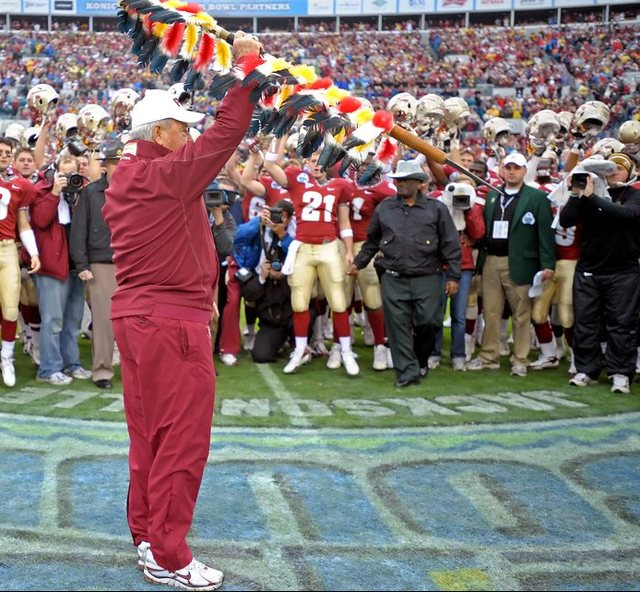
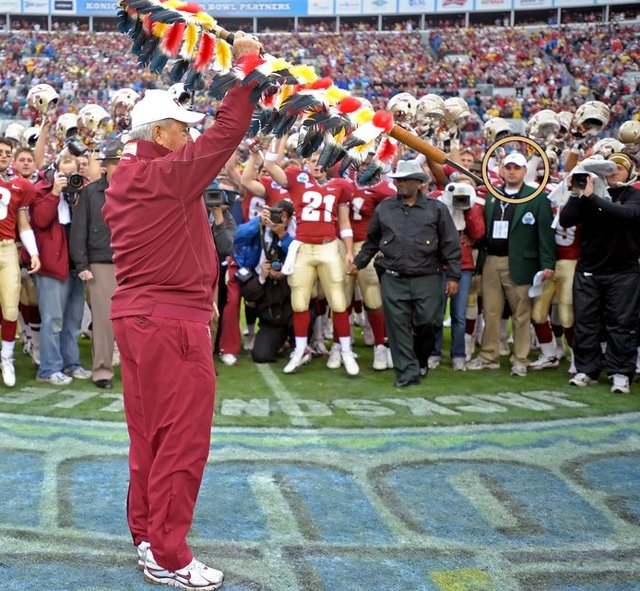
Gallery: enlarged photos keep their true shape; Erik circled in the Oval Office and Bowden photos
- the enlargement took its proportions from the tile, which for the two
  zoomed tiles is a different shape from the full photo, so those stretched;
  each link now carries the full photo's own ratio and the image never
  distorts (object-fit: contain)
- Erik is the bearded man in the back row above the woman in the tweed
  jacket (not the man at far left): the Oval Office tile is re-cropped on
  him, and a thin gold ring marks him on the tile and the enlargement; same
  ring on the green jacket in the Bowden photo
- running list for Erik updated: the zoom question is answered

diff --git a/moments.html b/moments.html
@@ -67,97 +67,97 @@
   <div class="section">
     <div class="gallery">
       <figure class="tile">
-        <a class="tile__link" href="images/desantis-meeting-1600.jpg" data-caption="With Governor Ron DeSantis">
+        <a class="tile__link" href="images/desantis-meeting-1600.jpg" data-ratio="1600 / 1067" data-caption="With Governor Ron DeSantis">
           <picture><source type="image/webp" srcset="images/desantis-meeting-640.webp 640w, images/desantis-meeting-1024.webp 1024w, images/desantis-meeting-1600.webp 1600w" sizes="(max-width: 560px) 88vw, (max-width: 1000px) 50vw, 400px"><img src="images/desantis-meeting-1024.jpg" srcset="images/desantis-meeting-640.jpg 640w, images/desantis-meeting-1024.jpg 1024w, images/desantis-meeting-1600.jpg 1600w" sizes="(max-width: 560px) 88vw, (max-width: 1000px) 50vw, 400px" alt="Erik Dellenback at a conference table with Governor DeSantis and Florida faith leaders" width="640" height="427" fetchpriority="high" decoding="async"></picture>
         </a>
         <figcaption class="tile__cap"><span class="tile__label">Government</span><span class="tile__line">With Governor Ron DeSantis</span></figcaption>
       </figure>
       <figure class="tile">
-        <a class="tile__link" href="images/tebow-foundation-960.jpg" data-caption="With Tim Tebow">
+        <a class="tile__link" href="images/tebow-foundation-960.jpg" data-ratio="960 / 960" data-caption="With Tim Tebow">
           <picture><source type="image/webp" srcset="images/tebow-foundation-640.webp 640w, images/tebow-foundation-960.webp 960w" sizes="(max-width: 560px) 88vw, (max-width: 1000px) 50vw, 400px"><img src="images/tebow-foundation-960.jpg" srcset="images/tebow-foundation-640.jpg 640w, images/tebow-foundation-960.jpg 960w" sizes="(max-width: 560px) 88vw, (max-width: 1000px) 50vw, 400px" alt="Tim Tebow with his arm around Erik Dellenback in front of a Tim Tebow Foundation backdrop" width="640" height="640" fetchpriority="high" decoding="async"></picture>
         </a>
         <figcaption class="tile__cap"><span class="tile__label">Business</span><span class="tile__line">With Tim Tebow</span></figcaption>
       </figure>
       <figure class="tile">
-        <a class="tile__link" href="images/charlie-kirk-stage-1600.jpg" data-caption="With Charlie Kirk">
+        <a class="tile__link" href="images/charlie-kirk-stage-1600.jpg" data-ratio="1600 / 1067" data-caption="With Charlie Kirk">
           <picture><source type="image/webp" srcset="images/charlie-kirk-stage-640.webp 640w, images/charlie-kirk-stage-1024.webp 1024w, images/charlie-kirk-stage-1600.webp 1600w" sizes="(max-width: 560px) 88vw, (max-width: 1000px) 50vw, 400px"><img src="images/charlie-kirk-stage-1024.jpg" srcset="images/charlie-kirk-stage-640.jpg 640w, images/charlie-kirk-stage-1024.jpg 1024w, images/charlie-kirk-stage-1600.jpg 1600w" sizes="(max-width: 560px) 88vw, (max-width: 1000px) 50vw, 400px" alt="Erik Dellenback seated on stage in conversation with Charlie Kirk at a Florida Family Voice event" width="640" height="427" fetchpriority="high" decoding="async"></picture>
         </a>
         <figcaption class="tile__cap"><span class="tile__label">Ministry</span><span class="tile__line">With Charlie Kirk</span></figcaption>
       </figure>
       <figure class="tile">
-        <a class="tile__link" href="images/chris-tomlin-1600.jpg" data-caption="With Chris Tomlin and the For Others board">
+        <a class="tile__link" href="images/chris-tomlin-1600.jpg" data-ratio="1600 / 1600" data-caption="With Chris Tomlin and the For Others board">
           <picture><source type="image/webp" srcset="images/chris-tomlin-640.webp 640w, images/chris-tomlin-1024.webp 1024w, images/chris-tomlin-1600.webp 1600w" sizes="(max-width: 560px) 88vw, (max-width: 1000px) 50vw, 400px"><img src="images/chris-tomlin-1024.jpg" srcset="images/chris-tomlin-640.jpg 640w, images/chris-tomlin-1024.jpg 1024w, images/chris-tomlin-1600.jpg 1600w" sizes="(max-width: 560px) 88vw, (max-width: 1000px) 50vw, 400px" alt="Erik Dellenback with Chris Tomlin and the For Others board, standing in a line in a bright loft" width="640" height="640" loading="lazy" decoding="async"></picture>
         </a>
         <figcaption class="tile__cap"><span class="tile__label">Business</span><span class="tile__line">With Chris Tomlin and the For Others board</span></figcaption>
       </figure>
       <figure class="tile">
-        <a class="tile__link" href="images/trump-oval-office-1600.jpg" data-caption="With President Trump">
+        <a class="tile__link" href="images/trump-oval-office-1600.jpg" data-ratio="1600 / 1067" data-caption="With President Trump">
           <picture><source type="image/webp" srcset="images/trump-oval-office-640.webp 640w, images/trump-oval-office-1024.webp 1024w, images/trump-oval-office-1600.webp 1600w" sizes="(max-width: 560px) 88vw, (max-width: 1000px) 50vw, 400px"><img src="images/trump-oval-office-1024.jpg" srcset="images/trump-oval-office-640.jpg 640w, images/trump-oval-office-1024.jpg 1024w, images/trump-oval-office-1600.jpg 1600w" sizes="(max-width: 560px) 88vw, (max-width: 1000px) 50vw, 400px" alt="Erik Dellenback standing beside President Trump at the Resolute Desk in the Oval Office" width="640" height="427" loading="lazy" decoding="async"></picture>
         </a>
         <figcaption class="tile__cap"><span class="tile__label">Government</span><span class="tile__line">With President Trump</span></figcaption>
       </figure>
       <figure class="tile">
-        <a class="tile__link" href="images/bowden-last-game-1024.jpg" data-caption="Bobby Bowden’s last game, 2010 Gator Bowl">
-          <picture><source type="image/webp" srcset="images/bowden-zoom-640.webp 640w" sizes="(max-width: 560px) 88vw, (max-width: 1000px) 50vw, 400px"><img src="images/bowden-zoom-640.jpg" srcset="images/bowden-zoom-640.jpg 640w" sizes="(max-width: 560px) 88vw, (max-width: 1000px) 50vw, 400px" alt="Bobby Bowden at midfield holding a spear overhead before a full stadium" width="640" height="592" loading="lazy" decoding="async"></picture>
+        <a class="tile__link" href="images/bowden-last-game-ring-1024.jpg" data-ratio="1024 / 681" data-caption="Bobby Bowden’s last game, 2010 Gator Bowl">
+          <picture><source type="image/webp" srcset="images/bowden-zoom-640.webp 640w" sizes="(max-width: 560px) 88vw, (max-width: 1000px) 50vw, 400px"><img src="images/bowden-zoom-640.jpg" srcset="images/bowden-zoom-640.jpg 640w" sizes="(max-width: 560px) 88vw, (max-width: 1000px) 50vw, 400px" alt="Bobby Bowden at midfield holding a spear overhead; Erik, circled, stands at right in a green jacket" width="640" height="591" loading="lazy" decoding="async"></picture>
         </a>
         <figcaption class="tile__cap"><span class="tile__line">Bobby Bowden’s last game, 2010 Gator Bowl</span></figcaption>
       </figure>
       <figure class="tile">
-        <a class="tile__link" href="images/pheasant-hunt-1024.jpg" data-caption="With Geoff Moore and Pastor Joby Martin">
+        <a class="tile__link" href="images/pheasant-hunt-1024.jpg" data-ratio="1020 / 773" data-caption="With Geoff Moore and Pastor Joby Martin">
           <picture><source type="image/webp" srcset="images/pheasant-hunt-640.webp 640w, images/pheasant-hunt-1024.webp 1024w" sizes="(max-width: 560px) 88vw, (max-width: 1000px) 50vw, 400px"><img src="images/pheasant-hunt-1024.jpg" srcset="images/pheasant-hunt-640.jpg 640w, images/pheasant-hunt-1024.jpg 1024w" sizes="(max-width: 560px) 88vw, (max-width: 1000px) 50vw, 400px" alt="Erik Dellenback and two friends in orange hunting vests smiling in an open field" width="638" height="483" loading="lazy" decoding="async"></picture>
         </a>
         <figcaption class="tile__cap"><span class="tile__label">Outdoors</span><span class="tile__line">With Geoff Moore and Pastor Joby Martin</span></figcaption>
       </figure>
       <figure class="tile">
-        <a class="tile__link" href="images/gov-scott-1024.jpg" data-caption="With Governor Rick Scott">
+        <a class="tile__link" href="images/gov-scott-1024.jpg" data-ratio="1024 / 1043" data-caption="With Governor Rick Scott">
           <picture><source type="image/webp" srcset="images/gov-scott-640.webp 640w, images/gov-scott-1024.webp 1024w" sizes="(max-width: 560px) 88vw, (max-width: 1000px) 50vw, 400px"><img src="images/gov-scott-1024.jpg" srcset="images/gov-scott-640.jpg 640w, images/gov-scott-1024.jpg 1024w" sizes="(max-width: 560px) 88vw, (max-width: 1000px) 50vw, 400px" alt="Erik Dellenback with Governor Rick Scott" width="640" height="652" loading="lazy" decoding="async"></picture>
         </a>
         <figcaption class="tile__cap"><span class="tile__label">Government</span><span class="tile__line">With Governor Rick Scott</span></figcaption>
       </figure>
       <figure class="tile">
-        <a class="tile__link" href="images/america-reads-1600.jpg" data-caption="Reading at America Reads the Bible for 250">
+        <a class="tile__link" href="images/america-reads-1600.jpg" data-ratio="1600 / 926" data-caption="Reading at America Reads the Bible for 250">
           <picture><source type="image/webp" srcset="images/america-reads-640.webp 640w, images/america-reads-1024.webp 1024w, images/america-reads-1600.webp 1600w" sizes="(max-width: 560px) 88vw, (max-width: 1000px) 50vw, 400px"><img src="images/america-reads-1024.jpg" srcset="images/america-reads-640.jpg 640w, images/america-reads-1024.jpg 1024w, images/america-reads-1600.jpg 1600w" sizes="(max-width: 560px) 88vw, (max-width: 1000px) 50vw, 400px" alt="Erik reading 2 Samuel 5 at a lectern on the America Reads the Bible stage" width="640" height="370" loading="lazy" decoding="async"></picture>
         </a>
         <figcaption class="tile__cap"><span class="tile__label">Ministry</span><span class="tile__line">Reading at America Reads the Bible for 250</span></figcaption>
       </figure>
       <figure class="tile">
-        <a class="tile__link" href="images/tebow-office-1024.jpg" data-caption="With Secretary Marco Rubio">
+        <a class="tile__link" href="images/tebow-office-1024.jpg" data-ratio="1024 / 768" data-caption="With Secretary Marco Rubio">
           <picture><source type="image/webp" srcset="images/tebow-office-640.webp 640w, images/tebow-office-1024.webp 1024w" sizes="(max-width: 560px) 88vw, (max-width: 1000px) 50vw, 400px"><img src="images/tebow-office-1024.jpg" srcset="images/tebow-office-640.jpg 640w, images/tebow-office-1024.jpg 1024w" sizes="(max-width: 560px) 88vw, (max-width: 1000px) 50vw, 400px" alt="Erik Dellenback with Secretary Marco Rubio at the Tim Tebow Foundation office" width="640" height="480" loading="lazy" decoding="async"></picture>
         </a>
         <figcaption class="tile__cap"><span class="tile__label">Government</span><span class="tile__line">With Secretary Marco Rubio</span></figcaption>
       </figure>
       <figure class="tile">
-        <a class="tile__link" href="images/oval-office-prayer-960.jpg" data-caption="Praying in the Oval Office">
+        <a class="tile__link" href="images/oval-office-prayer-ring-960.jpg" data-ratio="960 / 1280" data-caption="Praying in the Oval Office">
           <picture><source type="image/webp" srcset="images/oval-office-zoom-640.webp 640w" sizes="(max-width: 560px) 88vw, (max-width: 1000px) 50vw, 400px"><img src="images/oval-office-zoom-640.jpg" srcset="images/oval-office-zoom-640.jpg 640w" sizes="(max-width: 560px) 88vw, (max-width: 1000px) 50vw, 400px" alt="A group of faith leaders praying with President Trump at the Resolute Desk" width="640" height="622" loading="lazy" decoding="async"></picture>
         </a>
         <figcaption class="tile__cap"><span class="tile__label">Government</span><span class="tile__line">Praying in the Oval Office</span></figcaption>
       </figure>
       <figure class="tile">
-        <a class="tile__link" href="images/pro-family-network-1024.jpg" data-caption="Pro-Family Legislative Network">
+        <a class="tile__link" href="images/pro-family-network-1024.jpg" data-ratio="1024 / 768" data-caption="Pro-Family Legislative Network">
           <picture><source type="image/webp" srcset="images/pro-family-network-640.webp 640w, images/pro-family-network-1024.webp 1024w" sizes="(max-width: 560px) 88vw, (max-width: 1000px) 50vw, 400px"><img src="images/pro-family-network-1024.jpg" srcset="images/pro-family-network-640.jpg 640w, images/pro-family-network-1024.jpg 1024w" sizes="(max-width: 560px) 88vw, (max-width: 1000px) 50vw, 400px" alt="Erik Dellenback speaking from a podium to a seated conference audience" width="640" height="480" loading="lazy" decoding="async"></picture>
         </a>
         <figcaption class="tile__cap"><span class="tile__label">Speaking</span><span class="tile__line">Pro-Family Legislative Network</span></figcaption>
       </figure>
       <figure class="tile">
-        <a class="tile__link" href="images/beach-baptism-1080.jpg" data-caption="Beach baptism with The Church of Eleven22">
+        <a class="tile__link" href="images/beach-baptism-1080.jpg" data-ratio="1080 / 1350" data-caption="Beach baptism with The Church of Eleven22">
           <picture><source type="image/webp" srcset="images/beach-baptism-640.webp 640w, images/beach-baptism-1024.webp 1024w, images/beach-baptism-1080.webp 1080w" sizes="(max-width: 560px) 88vw, (max-width: 1000px) 50vw, 400px"><img src="images/beach-baptism-1024.jpg" srcset="images/beach-baptism-640.jpg 640w, images/beach-baptism-1024.jpg 1024w, images/beach-baptism-1080.jpg 1080w" sizes="(max-width: 560px) 88vw, (max-width: 1000px) 50vw, 400px" alt="Baptism in the ocean with arms raised and the words 2552 baptized" width="640" height="800" loading="lazy" decoding="async"></picture>
         </a>
         <figcaption class="tile__cap"><span class="tile__label">Ministry</span><span class="tile__line">Beach baptism with The Church of Eleven22</span></figcaption>
       </figure>
       <figure class="tile">
-        <a class="tile__link" href="images/careportal-conference-1200.jpg" data-caption="CarePortal Conference, Kansas City">
+        <a class="tile__link" href="images/careportal-conference-1200.jpg" data-ratio="1200 / 600" data-caption="CarePortal Conference, Kansas City">
           <picture><source type="image/webp" srcset="images/careportal-conference-640.webp 640w, images/careportal-conference-1024.webp 1024w, images/careportal-conference-1200.webp 1200w" sizes="(max-width: 560px) 88vw, (max-width: 1000px) 50vw, 400px"><img src="images/careportal-conference-1024.jpg" srcset="images/careportal-conference-640.jpg 640w, images/careportal-conference-1024.jpg 1024w, images/careportal-conference-1200.jpg 1200w" sizes="(max-width: 560px) 88vw, (max-width: 1000px) 50vw, 400px" alt="Erik Dellenback smiling on stage at the CarePortal Conference" width="640" height="320" loading="lazy" decoding="async"></picture>
         </a>
         <figcaption class="tile__cap"><span class="tile__label">Speaking</span><span class="tile__line">CarePortal Conference, Kansas City</span></figcaption>
       </figure>
       <figure class="tile">
-        <a class="tile__link" href="images/sailfish-678.jpg" data-caption="Deep sea fishing with my Dad in Guatemala">
+        <a class="tile__link" href="images/sailfish-678.jpg" data-ratio="678 / 1280" data-caption="Deep sea fishing with my Dad in Guatemala">
           <picture><source type="image/webp" srcset="images/sailfish-640.webp 640w, images/sailfish-678.webp 678w" sizes="(max-width: 560px) 88vw, (max-width: 1000px) 50vw, 400px"><img src="images/sailfish-678.jpg" srcset="images/sailfish-640.jpg 640w, images/sailfish-678.jpg 678w" sizes="(max-width: 560px) 88vw, (max-width: 1000px) 50vw, 400px" alt="Erik and two others on the stern of a boat holding a sailfish" width="640" height="1208" loading="lazy" decoding="async"></picture>
         </a>
         <figcaption class="tile__cap"><span class="tile__label">Outdoors</span><span class="tile__line">Deep sea fishing with my Dad in Guatemala</span></figcaption>
       </figure>
       <figure class="tile">
-        <a class="tile__link" href="images/python-hunt-1024.jpg" data-caption="Python hunting in the Everglades, a 13-footer">
+        <a class="tile__link" href="images/python-hunt-1024.jpg" data-ratio="1024 / 1365" data-caption="Python hunting in the Everglades, a 13-footer">
           <picture><source type="image/webp" srcset="images/python-hunt-640.webp 640w, images/python-hunt-1024.webp 1024w" sizes="(max-width: 560px) 88vw, (max-width: 1000px) 50vw, 400px"><img src="images/python-hunt-1024.jpg" srcset="images/python-hunt-640.jpg 640w, images/python-hunt-1024.jpg 1024w" sizes="(max-width: 560px) 88vw, (max-width: 1000px) 50vw, 400px" alt="Erik Dellenback kneeling in tall grass holding a large python" width="640" height="853" loading="lazy" decoding="async"></picture>
         </a>
         <figcaption class="tile__cap"><span class="tile__label">Outdoors</span><span class="tile__line">Python hunting in the Everglades, a 13-footer</span></figcaption>

diff --git a/css/site.css b/css/site.css
@@ -533,7 +533,7 @@ main:focus { outline: none; }
 .tile__link { display: block; cursor: zoom-in; }
 .lightbox { max-width: min(96vw, 1400px); max-height: 96vh; max-height: 96svh; padding: 0; overscroll-behavior: contain; margin: auto; border: 0; background: var(--deep); color: var(--text); }
 .lightbox::backdrop { background: rgba(6, 9, 14, 0.9); }
-.lightbox__img { display: block; max-width: 96vw; max-height: 84vh; max-height: calc(96svh - 60px); width: auto; height: auto; margin: 0 auto; }
+.lightbox__img { display: block; max-width: 96vw; max-height: 84vh; max-height: calc(96svh - 60px); width: auto; height: auto; margin: 0 auto; object-fit: contain; }
 .lightbox__cap { margin: 0; padding: 12px 16px 16px; text-align: center; font-family: var(--sans); font-size: 13px; letter-spacing: 0.08em; text-transform: uppercase; color: var(--body); }
 .lightbox__close { position: absolute; top: 8px; right: 8px; min-width: 44px; min-height: 40px; display: inline-flex; align-items: center; justify-content: center; padding: 8px 12px; font-family: var(--sans); font-weight: 700; font-size: 12px; letter-spacing: 0.12em; text-transform: uppercase; color: var(--text); background: rgba(6, 9, 14, 0.7); border: 1px solid var(--rule); cursor: pointer; }
 .lightbox__close:hover, .lightbox__close:focus-visible { color: var(--navy); background: var(--gold); }

diff --git a/js/site.js b/js/site.js
@@ -218,11 +218,11 @@
         var img = link.querySelector('img');
         boxImg.src = link.getAttribute('href'); boxImg.alt = img ? img.alt : '';
         boxCap.textContent = link.getAttribute('data-caption') || '';
-        if (img && img.naturalWidth) boxImg.style.aspectRatio = img.naturalWidth + ' / ' + img.naturalHeight;
+        boxImg.style.aspectRatio = link.getAttribute('data-ratio') || '';
         box.showModal();
       });
     });
     box.addEventListener('click', function (e) { if (e.target === box || e.target.hasAttribute('data-lightbox-close')) box.close(); });
-    box.addEventListener('close', function () { boxImg.removeAttribute('src'); });
+    box.addEventListener('close', function () { boxImg.removeAttribute('src'); boxImg.style.aspectRatio = ''; });
   }
 })();

diff --git a/docs/FOR-ERIK.md b/docs/FOR-ERIK.md
@@ -45,7 +45,7 @@ The video at the top uses clips from CarePortal, the Patros men's series, the Ti
 
 5. QUICK CHECKS ON THINGS I DID FROM YOUR NOTES
 
-- Praying in the Oval Office and Bobby Bowden's last game: you asked to zoom or circle yourself. I zoomed the gallery tiles toward you (far left in the Oval Office; the green jacket at right at the Gator Bowl). Clicking a tile shows the whole photo. Right person? You also gave no category for these two: the Oval Office one is labelled Government like your Trump photo, and the Bowden one has no label. Which of your categories do you want on them?
+- Praying in the Oval Office and Bobby Bowden's last game: you asked to zoom or circle yourself, so both now do both. The gallery tile is zoomed toward you and a thin gold ring marks you (back row above the woman in the tweed jacket in the Oval Office; the green jacket at the Gator Bowl); clicking shows the whole photo with the same ring. You gave no category for these two: the Oval Office one is labelled Government like your Trump photo, and the Bowden one has no label. Which of your categories do you want on them?
 - America Reads the Bible: the caption uses your words, "Reading at America Reads the Bible for 250". If "for 250" means the America 250 celebration and you want it spelled out, say so.
 - TD Autographs and TD Speaking: listed under Businesses owned with no description. TD Autographs uses the mark from tdautographs.com; TD Speaking shows its name because no logo exists. Your CV's line about the four private companies you built for Tim Tebow sits on the Tebow Foundation entry. Give me a line for each, or tell me to take them off.
 - Your sketch had no food truck, so it is off the homepage row. It is still mentioned in the Auntie Anne's entry on the Career page and in your bio.
